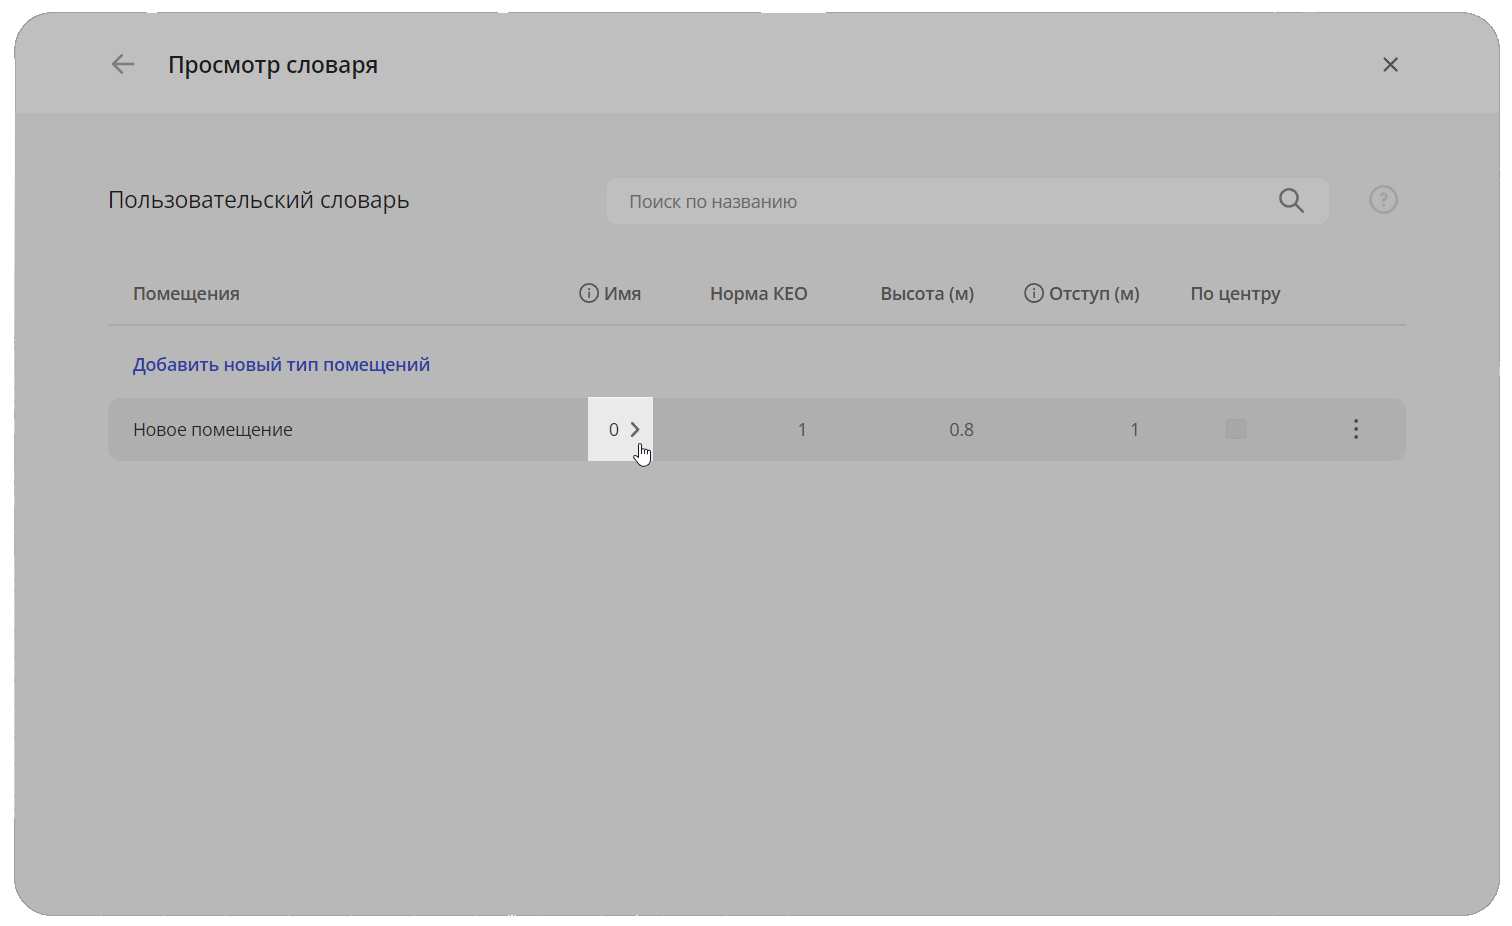
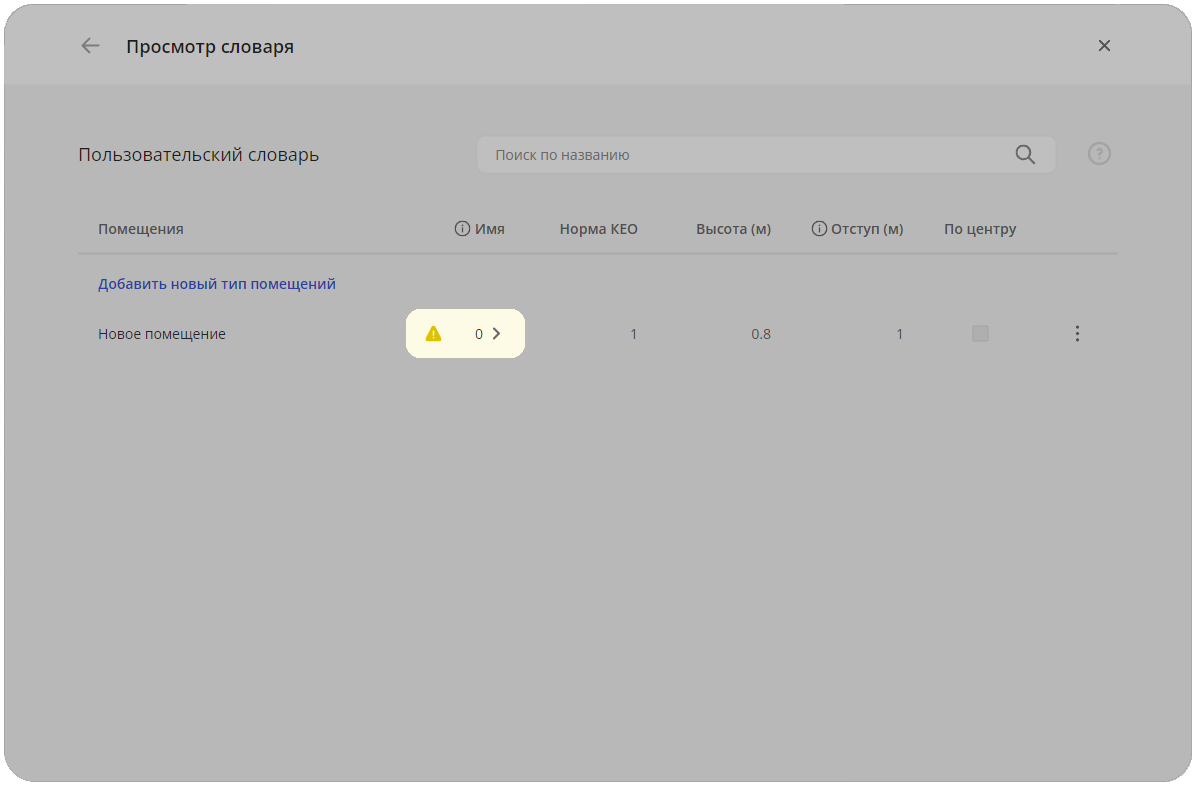
Новый экспортер

diff --git a/docs/3. Методические указания/3. Расчет КЕО.md b/docs/3. Методические указания/3. Расчет КЕО.md
@@ -62,13 +62,28 @@ _**Для каждого экранирующего здания:**_
 
 Положение точек КЕО, которые устанавливаются программой автоматически: 
 
-- определяется в соответствии с СП 52.13330.2016, СанПиН 1.2.3685-21;  
-- зависит от значения свойства комнаты «Тип помещения»;
-- создается в геометрическом центре помещения или на расстоянии 1 м от поверхности стены, противостоящей боковому светопроему, на уровне пола этажа или на уровне 0,8 м от него 
+- Определяется в соответствии с СП 52.13330.2016, СанПиН 1.2.3685-21;  
+- Зависит от значения свойства комнаты «Тип помещения»;
+- Создается в геометрическом центре помещения или на расстоянии 1 м от поверхности стены, противостоящей боковому светопроему, на уровне пола этажа или на уровне 0,8 м от него 
 (рабочая плоскость) в зависимости от назначения помещения.
 
 
 При двухстороннем боковом освещении помещений любого назначения ставится одна точка КЕО в центре помещения на пересечении вертикальной плоскости характерного разреза и рабочей поверхности. (п. 5.3 СП 52.13330.2016). 
+
+Положение точки в помещении с простой и сложной конфигурацией.
+
+В случае с простой геометрией помещения (квадратной, прямоугольной) поиск точки происходит соответственно стандартному алгоритму:
+
+- Определяется центральная ось помещения между внутренними стенами, вдоль которой будет находиться расчетная точка;
+- От стены противоположной световому проему, откладывается расстояние согласно п.5.3 СП 52.13330.2016 «Естественное и искусственное освещение»;
+- Высоту расчетной точки задается согласно т. 5.54 СанПиН 1.2. 3685-21 «Гигиенические нормативы и требования к обеспечению безопасности и (или) безвредности для человека факторов среды обитания».
+
+При сложной конфигурации помещения следует придерживаться правил, закрепленных в п. 5.3а СП 52.13330.2016 Изм. 1, Изм. 2:
+
+- Положение расчетной точки определяется с учетом приведения формы помещения к прямоугольнику;
+- В расчетах КЕО следует использовать эквивалентную глубину помещения, которая откладывается на характерном разрезе от центра светопроема;
+- Под эквивалентной глубиной помещения принимается отношение площади к ширине помещения;
+- Если характерный разрез (ХР) не совпадает с центром светопроема, то находится геометрический центр помещения, и ХР проходит через него.
 
 
 Для произвольных комнат пользователь может создать точки КЕО в любом месте пространства комнаты и вне ее. 
@@ -108,5 +123,12 @@ _**Для каждого экранирующего здания:**_
 Коэффициент "Тип стекла" задается в свойствах светопроема. 
 
 При наличии в помещении балкона, лоджии, горизонтального козырька и вертикального экрана проверочный расчет выполняют так же, как и для помещений без подобных конструкций, а их наличие учитывают понижающим коэффициентом К. 
+
+Применение понижающего коэффициента К (учитывающего потери света в архитектурных элементах фасадов зданий) закреплено в СП 52.13330.2016 Изм. 2 и СП 367.1325800.2017 Изм.1. 
+
+Величина коэффициента определяется в соответствии с таблицами А10а-А10г СП 367.1325800.2017 Изм.1. Его значение напрямую зависит от глубины помещения и положения точки нормирования.
+
+В сервисе коэффициент К определяется автоматически исходя из наличия балконов, лоджий, горизонтальных козырьков и вертикальных экранов. В случае их отсутствия величина К равна 1. 
+
 
 При расчете КЕО учитываются не только противолежащие затеняющие здания, но и конструкции расчетной модели здания, например, входная группа, выступы здания и т.д. 

diff --git a/docs/4. Что нового/93. Релиз от 07.02.2023.md b/docs/4. Что нового/93. Релиз от 07.02.2023.md
@@ -1,0 +1,43 @@
+---
+slug: /changelog/07-02-2023
+---
+
+***
+
+## Кео
+
+- Добавлена возможность мультиселекта окон при настройках Кео;
+- Добавлен мультиселект в меню настройки помещений; 
+- Улучшен алгоритм расчета геометрического КЕО;
+- Сохранение выставленных настроек КЕО;
+- Теперь при выделении типа окна в настройках окон Кео в сцене выделяются все окна этого типа; 
+- Улучшен алгоритм расчета толщины стены.
+
+## Экспортер
+
+- Обновлен интерфейс;
+- Улучшена скорость экспорта на 20%.
+
+## Отчеты
+
+- Стандартная высота сечения изменена на 800мм в блоке "Приложения";
+- Сечение в блоке "Приложения" теперь выводится по умолчанию; 
+- Заливка полостей в сечении не применяется на окна. 
+  
+## Исправление ошибок
+
+- Исправлено переключение между режимами настроек инсоляции;
+- Исправлен мультиселект в настройках окон;
+- Исправлена ошибка обновления информации о проекте на главном экране;
+- Исправлена ошибка обновления информации о превью модели на главном экране;
+- Исправлена ошибка создания отчетов, когда одно из наименований было пустым;
+- Исправлена ошибка в отчете при фильтрации помещений, появлялся белый экран; 
+- Исправлена ошибка в создании кастомной квартирографии;
+- Исправлена работа сечения из блока "Приложения", расчетные точки и оконные проемы не отображались;
+- Исправлен вывод коэффициентов в расчет, выводились некорректные параметры  отчете;
+- Исправлены ошибки по расчету геометрического КЕО;
+- Исправлена ошибка отображения списка помещений при длинном наименовании;
+- Исправлена ошибка в выведении сечения, слетали марки помещений; 
+- Исправлена проблема с фильтрацией окон; 
+- Исправлено несоответствие нормируемого и расчетного КЕО в результатах; 
+- Исправлена ошибка в отчетах блока "Типы помещений".

diff --git a/docs/3. Руководство пользователя/2. Экспортёр. Установка. Принцип работы/3. Экспорт модели.md b/docs/3. Руководство пользователя/2. Экспортёр. Установка. Принцип работы/3. Экспорт модели.md
@@ -105,16 +105,19 @@ import exImage from "@site/docs/resources/frame/ex.png";
 
 <image image={zakrImage} width="100%" title="Рисунок 20 - Выход из режима настройки пользовательской квартирографии"/>
 
-Взвращаемся в меню нзначения квартирографии. (рис. 20) Ваша квартирография появится в выпадающем списке (рис. 21) для каждого сформированного здания. Заполняем все поля, нажимаем *"экспортировать"*(рис. 22).
+Взвращаемся в меню нзначения квартирографии. (рис. 20) Ваша квартирография появится в выпадающем списке (рис. 21) для каждого сформированного здания. Заполняем все поля, нажимаем *"экспортировать"*.(рис. 22)
 
 <image image={nkvImage} width="40%" title="Рисунок 21 - Выбор новой (пользовательской) квартирографии"/>
 
 
-<image image={exImage} width="100%" title="Рисунок 21 - Выбор новой (пользовательской) квартирографии"/>
+<image image={exImage} width="100%" title="Рисунок 22 - Кнопка экспортировать"/>
 
 ## 4 ШАГ *Экспорт модели*
 
-После нажатия кнопки *“Экспортировать”*, отображается ход конвертации, по окончании всплывет уведомление о завершении экспорта (рис. 22). Модель появится в вашем ЛК.
+
+Нажимаем кнопку *“Экспортировать”*.
+
+Отображается ход конвертации, по окончании всплывет уведомление о завершении экспорта (рис. 22). Модель появится в вашем ЛК.
 
 Если экспорт прошел успешно, пользователь видит уведомление об окончании экспорта.
 
@@ -122,5 +125,5 @@ import exImage from "@site/docs/resources/frame/ex.png";
 
 
 Нажимаем *“ОК”*.
-Закрываем окно и по ссылке переходим в браузер, в сервис Insolations.
+Закрываем окно и переходим в браузер, в сервис Insolations.
 

diff --git a/docs/2. Руководство пользователя/5. Расчёт КЕО/1.Установка параметров для расчета КЕО.md b/docs/2. Руководство пользователя/5. Расчёт КЕО/1.Установка параметров для расчета КЕО.md
@@ -102,6 +102,9 @@ import updatedicImage from "@site/docs/resources/frame/updatedic.png";
 
 Ниже, в этом же окне, показан список типов окон, спроектированных в программе Revit, для каждого из них нужно указать значения коэффициентов, которые влияют на уровень пропускания света в различных конструкциях (рис. 66, все значения можно определить в документации).
 
+Коэффициенты можно вводить сразу для нескольких типов окон с помощью мультиселекта. Чтобы это сделать зажимаем "ctrl", снять выделение с окна можно так же при зажатом "ctrl"  Чтобы выделить диапазон, зажимаем "shift".
+
+При выделеннии, соответствующие типы окон одсвечиваются в сцене.
 
 <image image={aImage} width="80%" title="Рисунок 66 - Выбор коэффициентов пропускания света"/>
 
